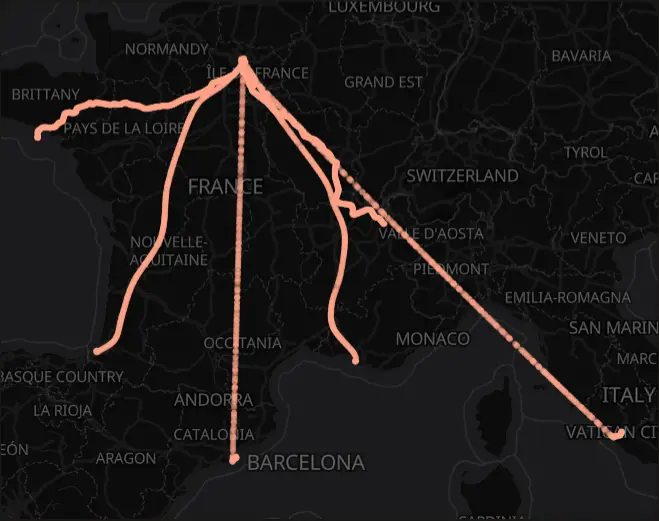
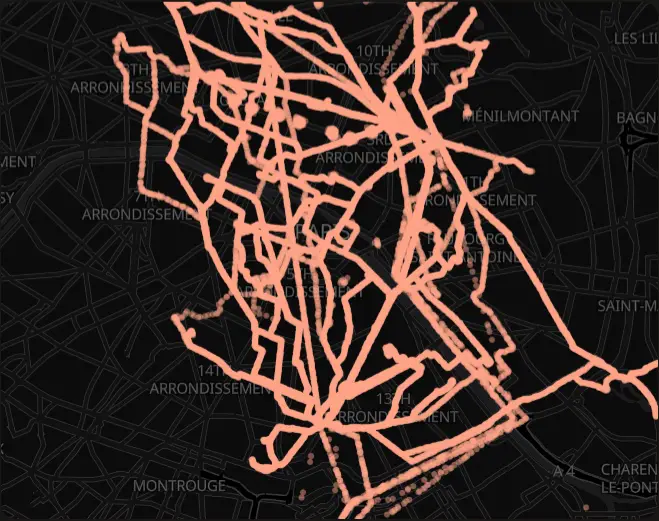
Frame the map capture on the demo's city, and keep only the questions that fit
The capture script records the maps the page creates, by rewriting the
served bundle for its run only, and jumps the positions map to Paris;
the app still fits the whole history. Each welcome keeps two or three
questions its explorer answers, among them which YouTube channels are
watched most.

diff --git a/buho-app/src/lib/data/modules.ts b/buho-app/src/lib/data/modules.ts
@@ -42,7 +42,8 @@ export interface DataModule {
     /**
      * What the module's explorer answers, as a visitor would ask it. Listed on
      * the welcome, so an empty module says what loading it is for. Each one is
-     * answered by a view the explorer has, or it does not belong here.
+     * answered by a view the explorer has, or it does not belong here; two good
+     * ones beat three where the third is filler.
      */
     questions: string[];
     /** The DuckDB table it is stored in. */
@@ -94,9 +95,9 @@ export const DATA_MODULES: DataModule[] = [
         blurb: 'Plays by artist, track, hour and day.',
         heading: { subject: 'Listening', rest: 'history' },
         questions: [
-            'Which artists have you played the most?',
+            'Which artists do you play the most?',
             'At what time of day do you listen?',
-            'How has your taste changed over the years?',
+            'How often do you skip a track?',
         ],
         table: 'plays',
         icon: 'music-note',
@@ -111,9 +112,8 @@ export const DATA_MODULES: DataModule[] = [
         blurb: 'Places, trips and routes.',
         heading: { subject: 'Location', rest: 'history' },
         questions: [
-            'Which parts of the city did you visit the most?',
-            'How long did you spend in each city?',
-            'When do you usually leave home in the morning?',
+            'Where in the city do you spend your time?',
+            'How much time have you spent in each city?',
         ],
         table: 'location_segments',
         icon: 'map-pin',
@@ -127,11 +127,7 @@ export const DATA_MODULES: DataModule[] = [
         label: 'Messages',
         blurb: 'Messages by conversation, person and hour.',
         heading: { subject: 'Conversations' },
-        questions: [
-            'What is your most active conversation?',
-            'Do you send or receive more messages?',
-            'At what time of day do you write?',
-        ],
+        questions: ['Who do you write to the most?', 'Do you send more messages than you receive?'],
         table: 'messages',
         icon: 'message',
         href: 'messages/explore',
@@ -145,9 +141,8 @@ export const DATA_MODULES: DataModule[] = [
         blurb: 'YouTube, Search and Maps history.',
         heading: { subject: 'Google activity' },
         questions: [
+            'Which YouTube channels do you watch the most?',
             'Do you watch more than you search?',
-            'At what time of day are you on YouTube?',
-            'Which months were you online the most?',
         ],
         table: 'google_activity',
         icon: 'google-activity',
@@ -162,8 +157,8 @@ export const DATA_MODULES: DataModule[] = [
         heading: { subject: 'Step', rest: 'counts' },
         questions: [
             'At what time of day do you walk the most?',
-            'Do you walk more in summer or in winter?',
-            'How much of it is running?',
+            'Do you walk more in summer than in winter?',
+            'How many of your steps are running?',
         ],
         table: 'step_packets',
         icon: 'footprints',
@@ -177,9 +172,8 @@ export const DATA_MODULES: DataModule[] = [
         blurb: 'Heart rate, stress and breathing.',
         heading: { subject: 'Heart rate', rest: 'and stress' },
         questions: [
-            'How does your heart rate move through the day?',
-            'When in the day are you most stressed?',
-            'How regular are your nights?',
+            'How does your heart rate change through the day?',
+            'When are you most stressed?',
         ],
         table: 'health_readings',
         icon: 'heartbeat',

diff --git a/buho-app/src/lib/components/ModuleEmptyState.test.ts b/buho-app/src/lib/components/ModuleEmptyState.test.ts
@@ -119,8 +119,8 @@ describe('ModuleEmptyState', () => {
     it('lists the questions the module answers', () => {
         render(ModuleEmptyState, { props: { module: moduleById('messages') } });
 
-        expect(screen.getByText('What is your most active conversation?')).toBeInTheDocument();
-        expect(screen.getByText('Do you send or receive more messages?')).toBeInTheDocument();
+        expect(screen.getByText('Who do you write to the most?')).toBeInTheDocument();
+        expect(screen.getByText('Do you send more messages than you receive?')).toBeInTheDocument();
     });
 
     /** The screen stays a screen: no procedure, no archive specs. */

diff --git a/buho-app/src/lib/components/calendar/CalendarEmpty.svelte b/buho-app/src/lib/components/calendar/CalendarEmpty.svelte
@@ -25,8 +25,7 @@
     rest="day by day"
     summary="What you listened to, where you went, who you wrote to, what you looked up, how much you walked and your heart rate, on the same days."
     questions={[
-        'What did a given day look like, across all your exports?',
-        'Where were you, and who were you writing to, that day?',
+        'What happened on a given day, across all your exports?',
         'How does one year compare with the next?',
     ]}
     preview={CALENDAR_SHOTS}
